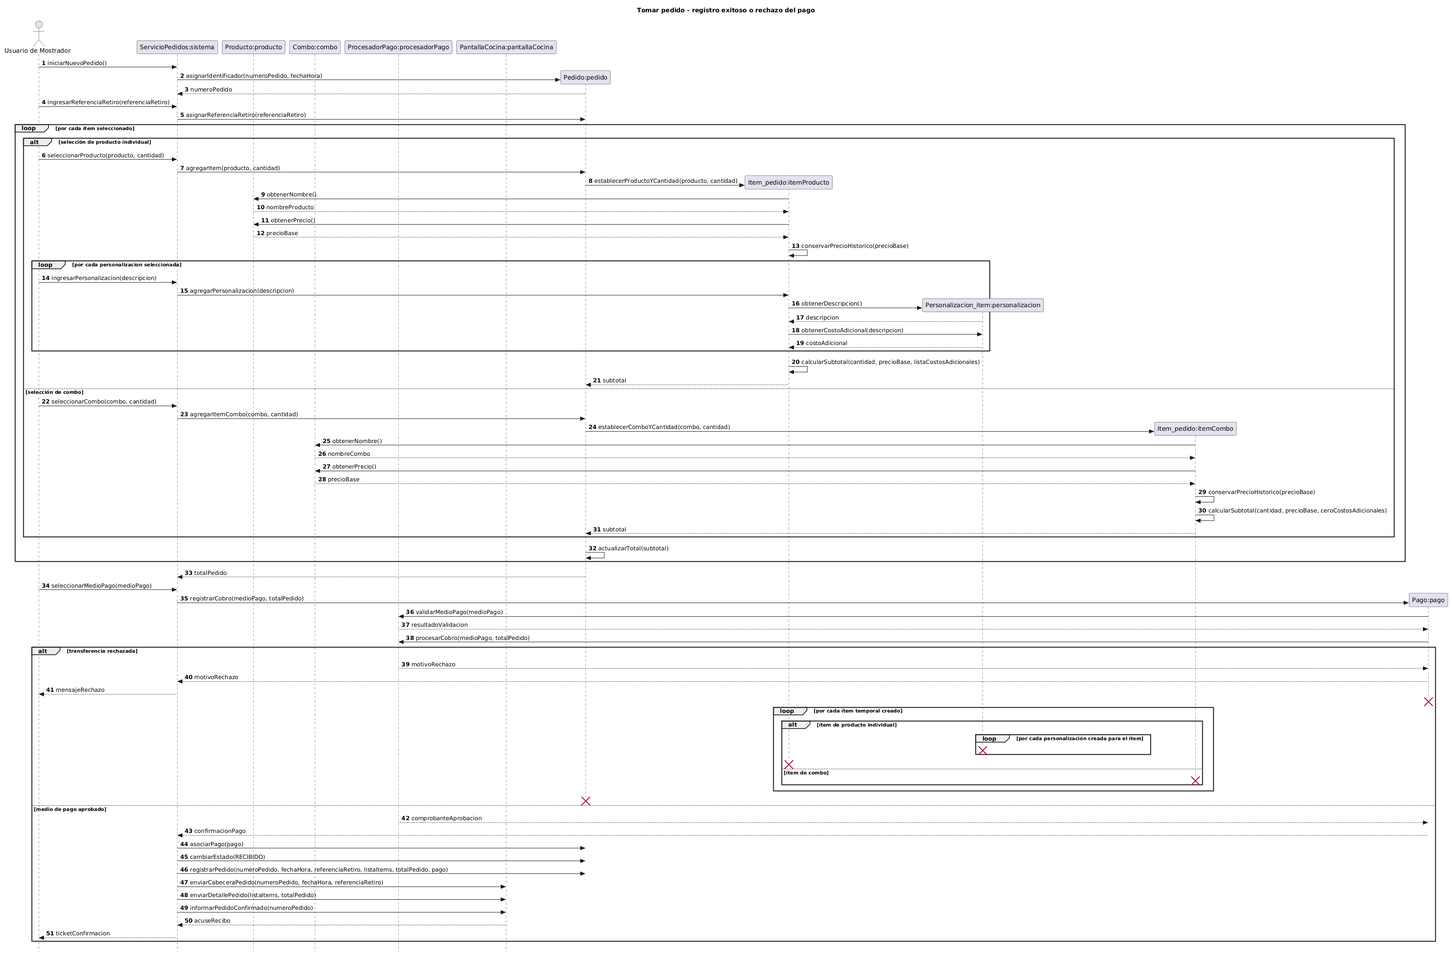
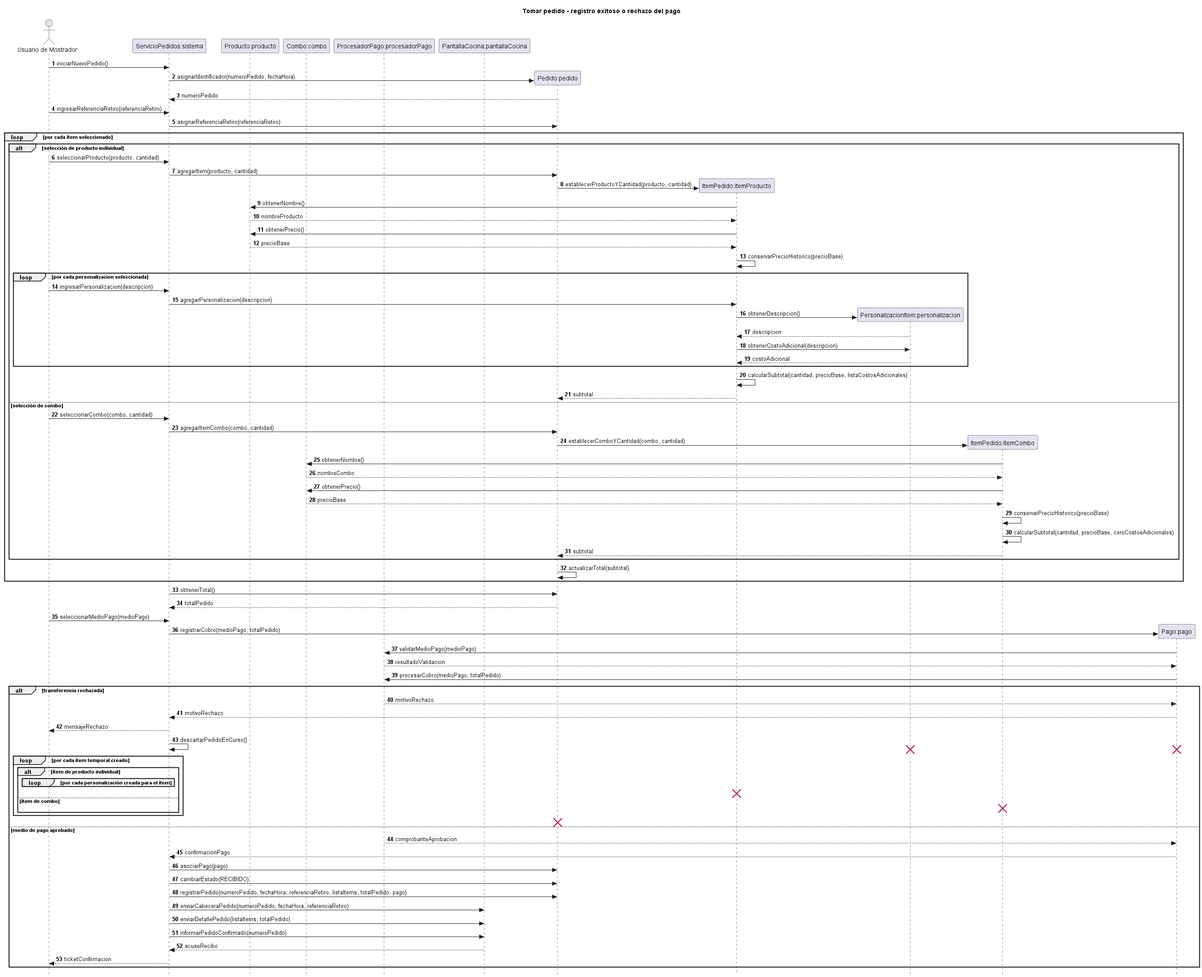
Normalizo nombres, agrego tarjetas CRC y alineo contratos del CU1 segun RC6, RC10, RC11, RC12, RC13 y RC19
- RC6/RC10: ItemPedido, PersonalizacionItem, EstadoPedido y MetodoPago en el
  diagrama de clases, la secuencia y el anexo del CU1 y en las tarjetas CRC 01 a 05.
- RC11/RC12/RC13: tarjetas CRC de ServicioPedidos, ProcesadorPago y PantallaCocina
  (17, 18 y 19), indexadas y enlazadas desde el anexo del CU1.
- RC19: registrarPedido queda solo en Pedido, obtenerTotal y descartarPedidoEnCurso
  se agregan a la secuencia y descartarPedidoEnCurso pasa a ser publico.
- Regenero los .png del diagrama de clases y de la secuencia del CU1.
- Documento la iteracion en ia/a4/analista-cu-1.md.

diff --git a/anexos/analisis-funcional/01-caso-de-uso-tomar-pedido.md b/anexos/analisis-funcional/01-caso-de-uso-tomar-pedido.md
@@ -29,12 +29,12 @@
 
 | ID | Requisito Funcional (texto exacto de introduccion.md) | Cómo lo satisface este caso de uso |
 | --- | --- | --- |
-| RF1 | El sistema debe permitir al personal del mostrador registrar pedidos especificando productos individuales, combos predefinidos (los cuales tienen su propia lógica de precio y no corresponden a la simple suma de sus partes) e ítems con personalizaciones individuales de ingredientes (quitar ingredientes o agregar adicionales con costo extra), reflejando de forma precisa el desglose y el precio total recalculado en pantalla al momento del registro. | Los pasos 4 a 6 crean un `Item_pedido` por cada `Producto` o `Combo` (el combo usa su propio precio), le agregan `Personalizacion_item` con su costo adicional y recalculan subtotal y total con `calcularSubtotal()` y `actualizarTotal()`. |
+| RF1 | El sistema debe permitir al personal del mostrador registrar pedidos especificando productos individuales, combos predefinidos (los cuales tienen su propia lógica de precio y no corresponden a la simple suma de sus partes) e ítems con personalizaciones individuales de ingredientes (quitar ingredientes o agregar adicionales con costo extra), reflejando de forma precisa el desglose y el precio total recalculado en pantalla al momento del registro. | Los pasos 4 a 6 crean un `ItemPedido` por cada `Producto` o `Combo` (el combo usa su propio precio), le agregan `PersonalizacionItem` con su costo adicional y recalculan subtotal y total con `calcularSubtotal()` y `actualizarTotal()`. |
 | RF2 | El sistema debe transmitir de forma automática e inmediata cada pedido confirmado desde el mostrador a la pantalla de la cocina, eliminando el traslado físico de comandas impresas o manuscritas y evitando pérdidas de información en el proceso. | En el paso 10, `ServicioPedidos` envía cabecera, detalle y confirmación a `PantallaCocina` sin intervención del usuario, y espera el acuse de recibo. |
-| RF3 | El sistema debe permitir al personal visualizar sincronizadamente los pedidos activos y controlar su ciclo de vida mediante un único estado secuencial y restringido: *Recibido*, *En preparación*, *Listo*, *Entregado* y *Cancelado*, garantizando una única fuente de verdad para evitar duplicaciones. | El caso de uso inicia el ciclo de vida: el pedido sólo se registra tras el pago y con `cambiarEstado(RECIBIDO)`, usando el enumerado `Estado_pedido` como único estado válido. |
+| RF3 | El sistema debe permitir al personal visualizar sincronizadamente los pedidos activos y controlar su ciclo de vida mediante un único estado secuencial y restringido: *Recibido*, *En preparación*, *Listo*, *Entregado* y *Cancelado*, garantizando una única fuente de verdad para evitar duplicaciones. | El caso de uso inicia el ciclo de vida: el pedido sólo se registra tras el pago y con `cambiarEstado(RECIBIDO)`, usando el enumerado `EstadoPedido` como único estado válido. |
 | RF6 | El sistema debe generar un identificador numérico único para cada pedido y permitir asociar de manera obligatoria un nombre o referencia de retiro (ej. "Matías", "Carla") en la comanda, facilitando el llamado en el mostrador para su entrega sin necesidad de registrar datos personales del cliente ni crear una ficha de cliente formal. | En los pasos 2 y 3 se ejecutan `asignarIdentificador(numeroPedido, fechaHora)` y `asignarReferenciaRetiro(referenciaRetiro)`. El Cliente no se modela como clase, porque el requisito excluye la ficha de cliente. |
 | RF7 | El sistema debe permitir marcar manualmente un pedido como prioritario (urgente) desde el mostrador al momento de tomarlo, visualizándose de forma destacada en la pantalla de cocina para que el personal altere el orden de preparación según su criterio. | El flujo alternativo A3 (`<<extend>>` "Marcar pedido como prioritario") invoca `Pedido.priorizar()`, que pone en verdadero el atributo `prioritario`. |
-| RF8 | El sistema debe permitir asociar y registrar el cobro de cada pedido utilizando únicamente efectivo o transferencia bancaria (dejando fuera QR y tarjetas en esta fase); asimismo, si un pedido previamente pagado es modificado en estado *Recibido*, el sistema debe recalcular el total y permitir registrar el cobro o ajuste de la diferencia económica generada. | En los pasos 7 y 8, `Pago.registrarCobro()` valida el medio con `ProcesadorPago` y sólo admite los valores del enumerado `Metodo_pago` (`EFECTIVO`, `TRANSFERENCIA`). El pago queda asociado 1 a 1 al pedido con `asociarPago(pago)`. |
+| RF8 | El sistema debe permitir asociar y registrar el cobro de cada pedido utilizando únicamente efectivo o transferencia bancaria (dejando fuera QR y tarjetas en esta fase); asimismo, si un pedido previamente pagado es modificado en estado *Recibido*, el sistema debe recalcular el total y permitir registrar el cobro o ajuste de la diferencia económica generada. | En los pasos 7 y 8, `Pago.registrarCobro()` valida el medio con `ProcesadorPago` y sólo admite los valores del enumerado `MetodoPago` (`EFECTIVO`, `TRANSFERENCIA`). El pago queda asociado 1 a 1 al pedido con `asociarPago(pago)`. |
 
 ## 2. Diagrama de Casos de Uso
 
@@ -71,19 +71,21 @@
 
 ![Diagrama de Secuencia - Tomar Pedido](../../diagramas/05-diagramas-secuencia/05-secuencia-tomar-pedido-registro-de-pedido-01.png)
 
-**Participantes:** `Usuario de Mostrador` (actor), `ServicioPedidos:sistema`, `Producto:producto`, `Combo:combo`, `ProcesadorPago:procesadorPago`, `PantallaCocina:pantallaCocina` y los objetos creados durante el escenario `Pedido:pedido`, `Item_pedido:itemProducto`, `Item_pedido:itemCombo`, `Personalizacion_item:personalizacion` y `Pago:pago`.
+**Participantes:** `Usuario de Mostrador` (actor), `ServicioPedidos:sistema`, `Producto:producto`, `Combo:combo`, `ProcesadorPago:procesadorPago`, `PantallaCocina:pantallaCocina` y los objetos creados durante el escenario `Pedido:pedido`, `ItemPedido:itemProducto`, `ItemPedido:itemCombo`, `PersonalizacionItem:personalizacion` y `Pago:pago`.
 
 **Mensajes clave:**
 
 - `iniciarNuevoPedido()` → crea `Pedido:pedido`, que con `asignarIdentificador(numeroPedido, fechaHora)` devuelve el `numeroPedido`.
-- `agregarItem(producto, cantidad)` / `agregarItemCombo(combo, cantidad)` → crean el `Item_pedido`, que consulta `obtenerPrecio()` y ejecuta `conservarPrecioHistorico(precioBase)`.
-- `agregarPersonalizacion(descripcion)` → crea `Personalizacion_item` y obtiene su `costoAdicional`.
+- `agregarItem(producto, cantidad)` / `agregarItemCombo(combo, cantidad)` → crean el `ItemPedido`, que consulta `obtenerPrecio()` y ejecuta `conservarPrecioHistorico(precioBase)`.
+- `agregarPersonalizacion(descripcion)` → crea `PersonalizacionItem` y obtiene su `costoAdicional`.
 - `calcularSubtotal(cantidad, precioBase, listaCostosAdicionales)` → devuelve el `subtotal`, que el pedido acumula con `actualizarTotal(subtotal)`.
+- `obtenerTotal()` → `ServicioPedidos` consulta al `Pedido` el `totalPedido` acumulado antes de cobrar.
 - `registrarCobro(medioPago, totalPedido)` → `Pago` valida y procesa el cobro con `ProcesadorPago` y devuelve `confirmacionPago` o `motivoRechazo`.
-- `asociarPago(pago)`, `cambiarEstado(RECIBIDO)` y `registrarPedido(...)` → dejan el pedido persistido en estado `RECIBIDO`.
+- `asociarPago(pago)`, `cambiarEstado(RECIBIDO)` y `registrarPedido(...)` → `ServicioPedidos` los invoca sobre `Pedido`, que es el dueño de los tres métodos, y dejan el pedido persistido en estado `RECIBIDO`.
+- `descartarPedidoEnCurso()` → ante el rechazo del pago, `ServicioPedidos` descarta el pedido en curso y se destruyen los objetos temporales.
 - `enviarCabeceraPedido(...)`, `enviarDetallePedido(...)` e `informarPedidoConfirmado(numeroPedido)` → la cocina responde con `acuseRecibo` y el mostrador recibe el `ticketConfirmacion`.
 
-**Objetos temporales destruidos:** si la transferencia es rechazada, se destruyen `Pago:pago`, cada `Personalizacion_item:personalizacion`, cada `Item_pedido` (de producto o de combo) y `Pedido:pedido`. No persisten porque un pedido sin pago aprobado no debe registrarse ni llegar a Cocina (aspecto sobresaliente del escenario CU01-01).
+**Objetos temporales destruidos:** si la transferencia es rechazada, se destruyen `Pago:pago`, cada `PersonalizacionItem:personalizacion`, cada `ItemPedido` (de producto o de combo) y `Pedido:pedido`. No persisten porque un pedido sin pago aprobado no debe registrarse ni llegar a Cocina (aspecto sobresaliente del escenario CU01-01).
 
 ## 5. Diagrama de Clases del Caso de Uso
 
@@ -96,18 +98,18 @@ Fuente PlantUML: [01-clases-tomar-pedido-01.puml](../../diagramas/01-diagrama-cl
 | Clase | Responsabilidad (según tarjeta CRC) | Tarjeta CRC |
 | --- | --- | --- |
 | Pedido | Agregar, modificar y cancelar la orden. Cambiar mi estado operativo y gestionar la prioridad del pedido | [01-tarjeta-crc-pedido.md](../../herramientas-agile/tarjetas-crc/01-tarjeta-crc-pedido.md) |
-| Item_pedido | Calcular mi subtotal y recalcular el precio si sufro modificaciones. Agregar o quitar personalizaciones | [02-tarjeta-crc-item-pedido.md](../../herramientas-agile/tarjetas-crc/02-tarjeta-crc-item-pedido.md) |
+| ItemPedido | Calcular mi subtotal y recalcular el precio si sufro modificaciones. Agregar o quitar personalizaciones | [02-tarjeta-crc-item-pedido.md](../../herramientas-agile/tarjetas-crc/02-tarjeta-crc-item-pedido.md) |
 | Producto | Proveer el precio base y el nombre para la venta comercial. Cambiar mi precio en el catálogo general | [03-tarjeta-crc-producto.md](../../herramientas-agile/tarjetas-crc/03-tarjeta-crc-producto.md) |
-| Personalizacion_item | Calcular el costo de la modificación que represento | [04-tarjeta-crc-personalizacion-item.md](../../herramientas-agile/tarjetas-crc/04-tarjeta-crc-personalizacion-item.md) |
+| PersonalizacionItem | Calcular el costo de la modificación que represento | [04-tarjeta-crc-personalizacion-item.md](../../herramientas-agile/tarjetas-crc/04-tarjeta-crc-personalizacion-item.md) |
 | Pago | Registrar el cobro efectuado. Calcular diferencias de dinero asociadas a la transacción | [05-tarjeta-crc-pago.md](../../herramientas-agile/tarjetas-crc/05-tarjeta-crc-pago.md) |
 | ProductoPreparado | Subclase de Producto para los alimentos que se preparan en cocina (`tiempoPreparacion`) | [07-tarjeta-crc-producto-preparado.md](../../herramientas-agile/tarjetas-crc/07-tarjeta-crc-producto-preparado.md) |
 | ProductoEnvasado | Subclase de Producto para los artículos de góndola (`fechaElaboracion`, `fechaVencimiento`) | [08-tarjeta-crc-producto-envasado.md](../../herramientas-agile/tarjetas-crc/08-tarjeta-crc-producto-envasado.md) |
 | Combo | Agregar y eliminar combos del catálogo | [09-tarjeta-crc-combo.md](../../herramientas-agile/tarjetas-crc/09-tarjeta-crc-combo.md) |
 | Usuario | Autentificar el acceso al sistema | [13-tarjeta-crc-usuario.md](../../herramientas-agile/tarjetas-crc/13-tarjeta-crc-usuario.md) |
 | UsuarioMostrador | Registrar y modificar pedidos, y marcarlos como entregados | [14-tarjeta-crc-usuario-mostrador.md](../../herramientas-agile/tarjetas-crc/14-tarjeta-crc-usuario-mostrador.md) |
-| ServicioPedidos | Clase de control que coordina el escenario. No tiene tarjeta CRC: surge como participante del diagrama de secuencia de A3 | No aplica (participante del diagrama de secuencia) |
-| ProcesadorPago | Servicio que valida el medio de pago y procesa el cobro. Surge del diagrama de secuencia de A3 | No aplica (participante del diagrama de secuencia) |
-| PantallaCocina | Clase de frontera que muestra el pedido en Cocina. Surge del diagrama de secuencia de A3 | No aplica (participante del diagrama de secuencia) |
+| ServicioPedidos | Coordinar la carga del pedido, gestionar el cobro y registrar el pedido confirmado, y notificar a Cocina | [17-tarjeta-crc-servicio-pedidos.md](../../herramientas-agile/tarjetas-crc/17-tarjeta-crc-servicio-pedidos.md) |
+| ProcesadorPago | Validar el medio de pago y procesar el cobro, informando el motivo de rechazo | [18-tarjeta-crc-procesador-pago.md](../../herramientas-agile/tarjetas-crc/18-tarjeta-crc-procesador-pago.md) |
+| PantallaCocina | Recibir la cabecera y el detalle de cada pedido confirmado y confirmar la recepción | [19-tarjeta-crc-pantalla-cocina.md](../../herramientas-agile/tarjetas-crc/19-tarjeta-crc-pantalla-cocina.md) |
 
 **Relaciones UML:**
 
@@ -115,17 +117,17 @@ Fuente PlantUML: [01-clases-tomar-pedido-01.puml](../../diagramas/01-diagrama-cl
 | --- | --- | --- |
 | Herencia | UsuarioMostrador → Usuario | El usuario de mostrador es un tipo de usuario del sistema y hereda sus credenciales y `autentificar()` (tarjetas CRC 13 y 14). |
 | Herencia | ProductoPreparado → Producto, ProductoEnvasado → Producto | Ambos son productos del catálogo con nombre y precio; cada subclase agrega sus atributos propios. `Producto` es abstracta, como en el boceto inicial. |
-| Composición | Pedido ◆→ Item_pedido (1 a 1..*) | Un ítem no existe fuera de su pedido: si el pago es rechazado, el pedido se destruye junto con sus ítems (diagrama de secuencia). |
-| Composición | Item_pedido ◆→ Personalizacion_item (1 a 0..*) | La personalización sólo tiene sentido aplicada a un ítem concreto y se destruye con él. |
+| Composición | Pedido ◆→ ItemPedido (1 a 1..*) | Un ítem no existe fuera de su pedido: si el pago es rechazado, el pedido se destruye junto con sus ítems (diagrama de secuencia). |
+| Composición | ItemPedido ◆→ PersonalizacionItem (1 a 0..*) | La personalización sólo tiene sentido aplicada a un ítem concreto y se destruye con él. |
 | Agregación | ServicioPedidos ◇→ Pedido (1 a 0..*) | El sistema agrupa los pedidos para gestionarlos, pero los pedidos registrados persisten de forma independiente por auditoría (RF5). |
-| Asociación | Item_pedido → Producto / Combo (0..* a 0..1) | El ítem referencia el artículo del catálogo (un producto o un combo) para obtener nombre y precio base. El catálogo existe antes y después del pedido. |
+| Asociación | ItemPedido → Producto / Combo (0..* a 0..1) | El ítem referencia el artículo del catálogo (un producto o un combo) para obtener nombre y precio base. El catálogo existe antes y después del pedido. |
 | Asociación | Pedido — Pago (1 a 0..1) | Relación 1 a 1 para auditoría de caja. Es 0..1 mientras el pedido está en carga y todavía no se cobró. |
 | Asociación | Pedido → UsuarioMostrador (0..* a 1) | `creadoPor` registra qué usuario tomó el pedido (trazabilidad, RNF5). |
 | Asociación | ServicioPedidos → PantallaCocina | El sistema notifica cada pedido confirmado a la pantalla de Cocina (RF2). |
 | Dependencia | UsuarioMostrador ⇢ ServicioPedidos (`<<use>>`) | El usuario opera el sistema para cargar el pedido, sin guardar una referencia permanente. |
 | Dependencia | ServicioPedidos ⇢ Pago (`<<create>>`) | El sistema crea el `Pago` al seleccionar el medio de pago; luego lo asocia al pedido. |
 | Dependencia | Pago ⇢ ProcesadorPago (`<<use>>`) | `Pago` usa el procesador sólo durante `registrarCobro()` para validar y procesar el cobro. |
-| Dependencia | Pedido ⇢ Estado_pedido, Pago ⇢ Metodo_pago | Los enumerados restringen los valores válidos de estado (RF3) y de medio de pago (RF8). |
+| Dependencia | Pedido ⇢ EstadoPedido, Pago ⇢ MetodoPago | Los enumerados restringen los valores válidos de estado (RF3) y de medio de pago (RF8). |
 
 ## 6. Pseudocódigo
 
@@ -201,7 +203,8 @@ ticket = sistema.seleccionarMedioPago(TRANSFERENCIA)
     //       procesadorPago.procesarCobro(TRANSFERENCIA, 16800)    retorna verdadero o falso
 
     SI aprobado
-        // Paso 9: se asocia el pago y se registra el pedido en RECIBIDO (RF3)
+        // Paso 9: ServicioPedidos asocia el pago y registra el pedido en RECIBIDO (RF3).
+        // Los tres métodos pertenecen a Pedido.
         pedido.asociarPago(pago)
         pedido.cambiarEstado(RECIBIDO)
         pedido.registrarPedido(numero, fechaHora, "Matías", [item1, item2], 16800, pago)
@@ -215,7 +218,7 @@ ticket = sistema.seleccionarMedioPago(TRANSFERENCIA)
         // Flujo alternativo A2: transferencia rechazada
         motivo = procesadorPago.obtenerMotivoRechazo()
         // se informa el motivo; si el cliente no reintenta con otro medio,
-        // se destruyen pago, personalizaciones, ítems y pedido
+        // ServicioPedidos descarta el pedido en curso: se destruyen pago, personalizaciones, ítems y pedido
         sistema.descartarPedidoEnCurso()
         ticket = "Pago rechazado: " + motivo
     FIN SI

diff --git a/ia/a4/analista-cu-1.md b/ia/a4/analista-cu-1.md
@@ -64,3 +64,11 @@ Con ese pedido, la IA leyó los archivos de contexto de la sección 1 y tomó de
 
 - Se renderizó el `.puml` con PlantUML y se revisó la imagen para verificar que las multiplicidades y estereotipos fueran legibles.
 - Se verificó que todas las rutas de imágenes y tarjetas CRC referenciadas en el anexo existan en el repositorio.
+- **Iteración de corrección (revisión docente de la release, RC6, RC10, RC11, RC12, RC13 y RC19):**
+  - Se normalizaron los nombres de clase a PascalCase en el CU1 y en las tarjetas CRC de esas clases: `ItemPedido`, `PersonalizacionItem`, `EstadoPedido` y `MetodoPago`. Esto reemplaza la decisión del ajuste 2, que había conservado el guion bajo.
+  - Se crearon las tarjetas CRC de `ServicioPedidos`, `ProcesadorPago` y `PantallaCocina` (17, 18 y 19), se agregaron al índice y se enlazaron desde el anexo. Esto resuelve el ajuste 3.
+  - Se alinearon los contratos entre el diagrama de clases, la secuencia y el pseudocódigo:
+    - `registrarPedido(...)` queda sólo en `Pedido`. Se quitó `registrarPedido()` de `UsuarioMostrador`, que opera a través de `ServicioPedidos`.
+    - `obtenerTotal()` ahora aparece como mensaje en la secuencia.
+    - `descartarPedidoEnCurso()` pasa a ser público en `ServicioPedidos` y se invoca en la secuencia ante el rechazo del pago, igual que en el pseudocódigo.
+    - `asociarPago(pago)` y `conservarPrecioHistorico(precioBase)` ya coincidían y se deja explícito que pertenecen a `Pedido` y a `ItemPedido`.

diff --git a/herramientas-agile/tarjetas-crc/17-tarjeta-crc-servicio-pedidos.md b/herramientas-agile/tarjetas-crc/17-tarjeta-crc-servicio-pedidos.md
@@ -1,0 +1,11 @@
+|  |  |  |  |
+|---|---|---|---|
+| **Nombre de la Clase:** |ServicioPedidos  | | |
+| **Superclase:** |Ninguna | | |
+| **Subclase:** |Ninguna | | |
+| **Responsabilidades** | **Colaboradores** | **Pensamiento del objeto** | **Propiedad** |
+| Coordinar la carga de un pedido: crearlo con número único, asignar la referencia de retiro y agregar ítems y personalizaciones | Pedido, ItemPedido, Producto, Combo | Soy el punto de coordinación entre las pantallas y el dominio: recibo cada acción del usuario y la traduzco en operaciones sobre los pedidos | pedidos, pedidoEnCurso, itemEnCurso, ultimoNumeroPedido |
+| Gestionar el cobro y registrar el pedido confirmado, o descartar el pedido en curso si el pago es rechazado | Pago, Pedido | | |
+| Notificar a Cocina cada pedido confirmado | PantallaCocina | | |
+| Atender las operaciones sobre pedidos existentes solicitadas desde las pantallas (modificar, cancelar, cambiar estado y consultar) | Pedido, PantallaPedidos, Usuario | | |
+|  |  |  |  |

diff --git a/herramientas-agile/tarjetas-crc/01-tarjeta-crc-pedido.md b/herramientas-agile/tarjetas-crc/01-tarjeta-crc-pedido.md
@@ -4,6 +4,6 @@
 | **Superclase:** |Ninguna | | |
 | **Subclase:** |Ninguna | | |
 | **Responsabilidades** | **Colaboradores** | **Pensamiento del objeto** | **Propiedad** |
-| Agregar, modificar y cancelar la orden | Cliente, Item_pedido | Soy la intención de compra del cliente y centralizo la orden completa | fecha, numeroPedido, referenciaRetiro |
-| Cambiar mi estado operativo y gestionar la prioridad del pedido | Estado_pedido | Conozco mi estado dentro del ciclo de vida del negocio | estado, prioritario |
+| Agregar, modificar y cancelar la orden | Cliente, ItemPedido | Soy la intención de compra del cliente y centralizo la orden completa | fecha, numeroPedido, referenciaRetiro |
+| Cambiar mi estado operativo y gestionar la prioridad del pedido | EstadoPedido | Conozco mi estado dentro del ciclo de vida del negocio | estado, prioritario |
 |  |  |  |  |

diff --git a/herramientas-agile/tarjetas-crc/02-tarjeta-crc-item-pedido.md b/herramientas-agile/tarjetas-crc/02-tarjeta-crc-item-pedido.md
@@ -1,9 +1,9 @@
 |  |  |  |  |
 |---|---|---|---|
-| **Nombre de la Clase:** | Item_pedido | | |
+| **Nombre de la Clase:** | ItemPedido | | |
 | **Superclase:** |Ninguna | | |
 | **Subclase:** |Ninguna | | |
 | **Responsabilidades** | **Colaboradores** | **Pensamiento del objeto** | **Propiedad** |
 |Calcular mi subtotal y recalcular el precio si sufro modificaciones  | Pedido, Producto | Soy una línea concreta dentro de un pedido y calculo mi propio subtotal | cantidad, precioUnitario, subtotal |
-| Agregar o quitar personalizaciones | Personalizacion_item | Conozco los ajustes o ingredientes extra que se me aplican |  |
+| Agregar o quitar personalizaciones | PersonalizacionItem | Conozco los ajustes o ingredientes extra que se me aplican |  |
 |  |  |  |  |

diff --git a/herramientas-agile/tarjetas-crc/04-tarjeta-crc-personalizacion-item.md b/herramientas-agile/tarjetas-crc/04-tarjeta-crc-personalizacion-item.md
@@ -1,8 +1,8 @@
 |  |  |  |  |
 |---|---|---|---|
-| **Nombre de la Clase:** |Personalizacion_item  | | |
+| **Nombre de la Clase:** |PersonalizacionItem  | | |
 | **Superclase:** |Ninguna | | |
 | **Subclase:** |Ninguna | | |
 | **Responsabilidades** | **Colaboradores** | **Pensamiento del objeto** | **Propiedad** |
-| Calcular el costo de la modificación que represento | Item_pedido | Soy un ajuste específico y conozco mi valor adicional | descripcion, costoAdicional |
+| Calcular el costo de la modificación que represento | ItemPedido | Soy un ajuste específico y conozco mi valor adicional | descripcion, costoAdicional |
 |  |  |  |  |

diff --git a/herramientas-agile/tarjetas-crc/03-tarjeta-crc-producto.md b/herramientas-agile/tarjetas-crc/03-tarjeta-crc-producto.md
@@ -4,6 +4,6 @@
 | **Superclase:** |Ninguna | | |
 | **Subclase:** |ProductoPreparado, ProductoEnvasado | | |
 | **Responsabilidades** | **Colaboradores** | **Pensamiento del objeto** | **Propiedad** |
-|Proveer el precio base y el nombre para la venta comercial  | Item_pedido | Soy un artículo del catálogo y defino la identidad comercial base | nombre, precio |
+|Proveer el precio base y el nombre para la venta comercial  | ItemPedido | Soy un artículo del catálogo y defino la identidad comercial base | nombre, precio |
 | Cambiar mi precio en el catálogo general |  | Conozco mi valor para actualizarlo en el sistema |  |
 |  |  |  |  |

diff --git a/herramientas-agile/tarjetas-crc/05-tarjeta-crc-pago.md b/herramientas-agile/tarjetas-crc/05-tarjeta-crc-pago.md
@@ -4,6 +4,6 @@
 | **Superclase:** |Ninguna | | |
 | **Subclase:** |Ninguna | | |
 | **Responsabilidades** | **Colaboradores** | **Pensamiento del objeto** | **Propiedad** |
-| Registrar el cobro efectuado | Pedido, Metodo_pago | Soy la transacción financiera y capturo la forma de pago | metodoDePago |
+| Registrar el cobro efectuado | Pedido, MetodoPago | Soy la transacción financiera y capturo la forma de pago | metodoDePago |
 | Calcular diferencias de dinero asociadas a la transacción | Historial_pago | Conozco el monto abonado para respaldar la orden | monto |
 |  |  |  |  |

diff --git a/herramientas-agile/tarjetas-crc/19-tarjeta-crc-pantalla-cocina.md b/herramientas-agile/tarjetas-crc/19-tarjeta-crc-pantalla-cocina.md
@@ -1,0 +1,9 @@
+|  |  |  |  |
+|---|---|---|---|
+| **Nombre de la Clase:** |PantallaCocina  | | |
+| **Superclase:** |Ninguna | | |
+| **Subclase:** |Ninguna | | |
+| **Responsabilidades** | **Colaboradores** | **Pensamiento del objeto** | **Propiedad** |
+| Recibir la cabecera y el detalle de cada pedido confirmado para mostrarlo en Cocina | ServicioPedidos, ItemPedido | Soy la pantalla de Cocina: muestro cada pedido apenas se confirma, sin comandas en papel | Ninguna |
+| Confirmar la recepción del pedido con un acuse de recibo | ServicioPedidos | | |
+|  |  |  |  |

diff --git a/herramientas-agile/tarjetas-crc/18-tarjeta-crc-procesador-pago.md b/herramientas-agile/tarjetas-crc/18-tarjeta-crc-procesador-pago.md
@@ -1,0 +1,9 @@
+|  |  |  |  |
+|---|---|---|---|
+| **Nombre de la Clase:** |ProcesadorPago  | | |
+| **Superclase:** |Ninguna | | |
+| **Subclase:** |Ninguna | | |
+| **Responsabilidades** | **Colaboradores** | **Pensamiento del objeto** | **Propiedad** |
+| Validar que el medio de pago esté habilitado (efectivo o transferencia) | Pago, MetodoPago | Soy el intermediario con el medio de cobro: respondo si un pago se aprueba o se rechaza y por qué | Ninguna |
+| Procesar el cobro e informar el motivo de rechazo cuando no se aprueba | Pago | | |
+|  |  |  |  |

diff --git a/herramientas-agile/tarjetas-crc/tarjetas-crc.md b/herramientas-agile/tarjetas-crc/tarjetas-crc.md
@@ -30,3 +30,9 @@
 - [15 - Usuario Cocina ](15-tarjeta-crc-usuario-cocina.md)
 
 - [16 - Usuario Encargado ](16-tarjeta-crc-usuario-encargado.md)
+
+- [17 - Servicio Pedidos ](17-tarjeta-crc-servicio-pedidos.md)
+
+- [18 - Procesador Pago ](18-tarjeta-crc-procesador-pago.md)
+
+- [19 - Pantalla Cocina ](19-tarjeta-crc-pantalla-cocina.md)
